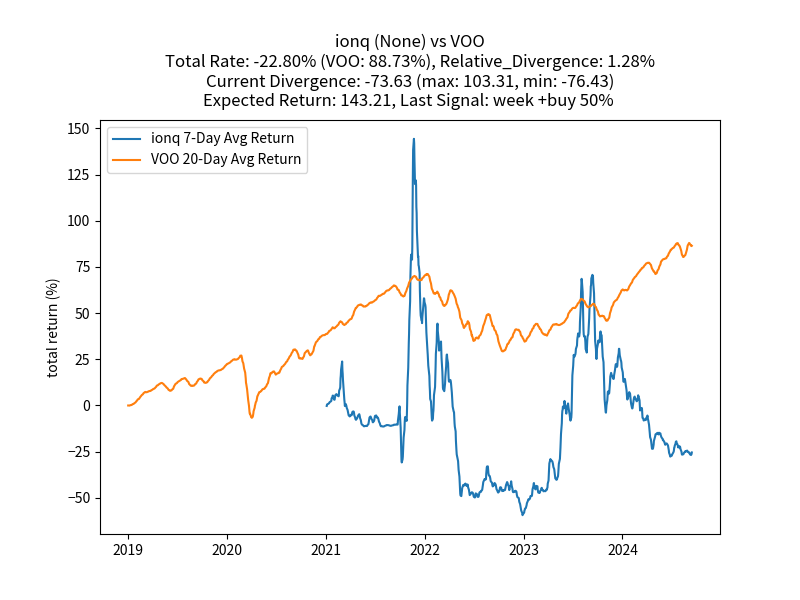
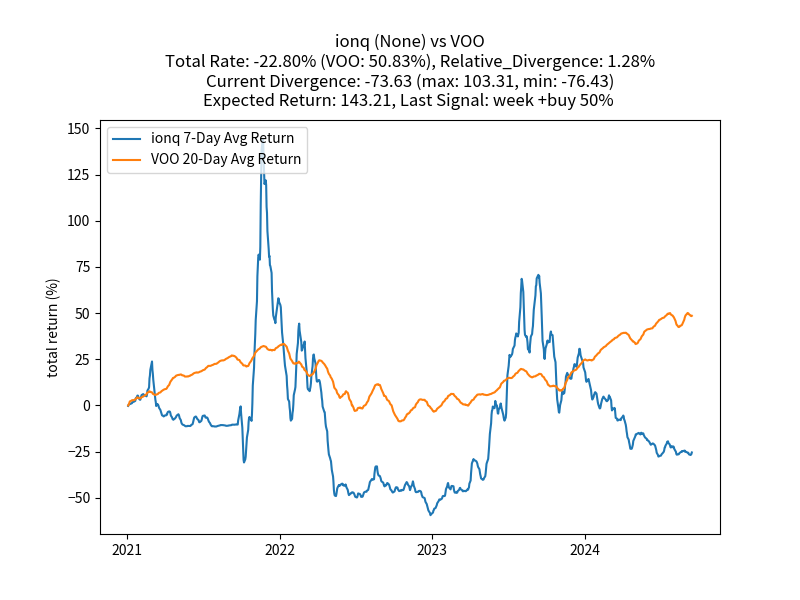
Auto-commit moved files

diff --git a/my-flask-app/Results_plot.py b/my-flask-app/Results_plot.py
@@ -69,9 +69,9 @@ async def plot_comparison_results(ticker, start_date, end_date):
 
     # 전체 데이터를 로드하여 플라스크 서버에서 그래프를 그립니다.
     full_path1 = os.path.join(config.STATIC_IMAGES_PATH, f"result_VOO_{ticker}.csv")
-    full_path2 = os.path.join(config.STATIC_IMAGES_PATH, "result_VOO_VOO.csv")
+    # full_path2 = os.path.join(config.STATIC_IMAGES_PATH, "result_VOO_VOO.csv")
     df1_graph = pd.read_csv(full_path1, parse_dates=['Date'], index_col='Date')
-    df2_graph = pd.read_csv(full_path2, parse_dates=['Date'], index_col='Date')
+    # df2_graph = pd.read_csv(full_path2, parse_dates=['Date'], index_col='Date')
     print(full_path1)
 
     # 간략화된 데이터를 로드하여 챗GPT에서 그래프를 그릴 수 있게 합니다.
@@ -90,19 +90,19 @@ async def plot_comparison_results(ticker, start_date, end_date):
 
     # **필터링 추가**: ARM 상장일 이후로 VOO 데이터를 필터링
     df1_graph = df1_graph.loc[start_date:end_date]
-    df2_graph = df2_graph.loc[start_date:end_date]  # VOO 데이터도 동일한 기간으로 필터링
+    # df2_graph = df2_graph.loc[start_date:end_date]  # VOO 데이터도 동일한 기간으로 필터링
 
 
     df1_graph['rate_7d_avg'] = df1_graph['rate'].rolling('7D').mean()
-    df2_graph['rate_20d_avg'] = df2_graph['rate'].rolling('20D').mean()  # VOO
+    df1_graph['rate_20d_avg'] = df1_graph['rate_vs'].rolling('20D').mean()  # VOO
 
     ax2.plot(df1_graph.index, df1_graph['rate_7d_avg'], label=f'{ticker} 7-Day Avg Return')
-    ax2.plot(df2_graph.index, df2_graph['rate_20d_avg'], label=f'{stock2} 20-Day Avg Return')
+    ax2.plot(df1_graph.index, df1_graph['rate_20d_avg'], label=f'VOO 20-Day Avg Return')
 
     plt.ylabel('total return (%)')
     plt.legend(loc='upper left')
 
-    voo_rate = df2_graph['rate'].iloc[-1] if not df2_graph.empty else 0  # VOO의 최종 수익률
+    voo_rate = df1_graph['rate_vs'].iloc[-1] if not df1_graph.empty else 0  # VOO의 최종 수익률
     total_rate = df1_graph['rate'].iloc[-1]  # {ticker}의 최종 수익률
     max_divergence = df1['Divergence'].max() 
     min_divergence = df1['Divergence'].min()
